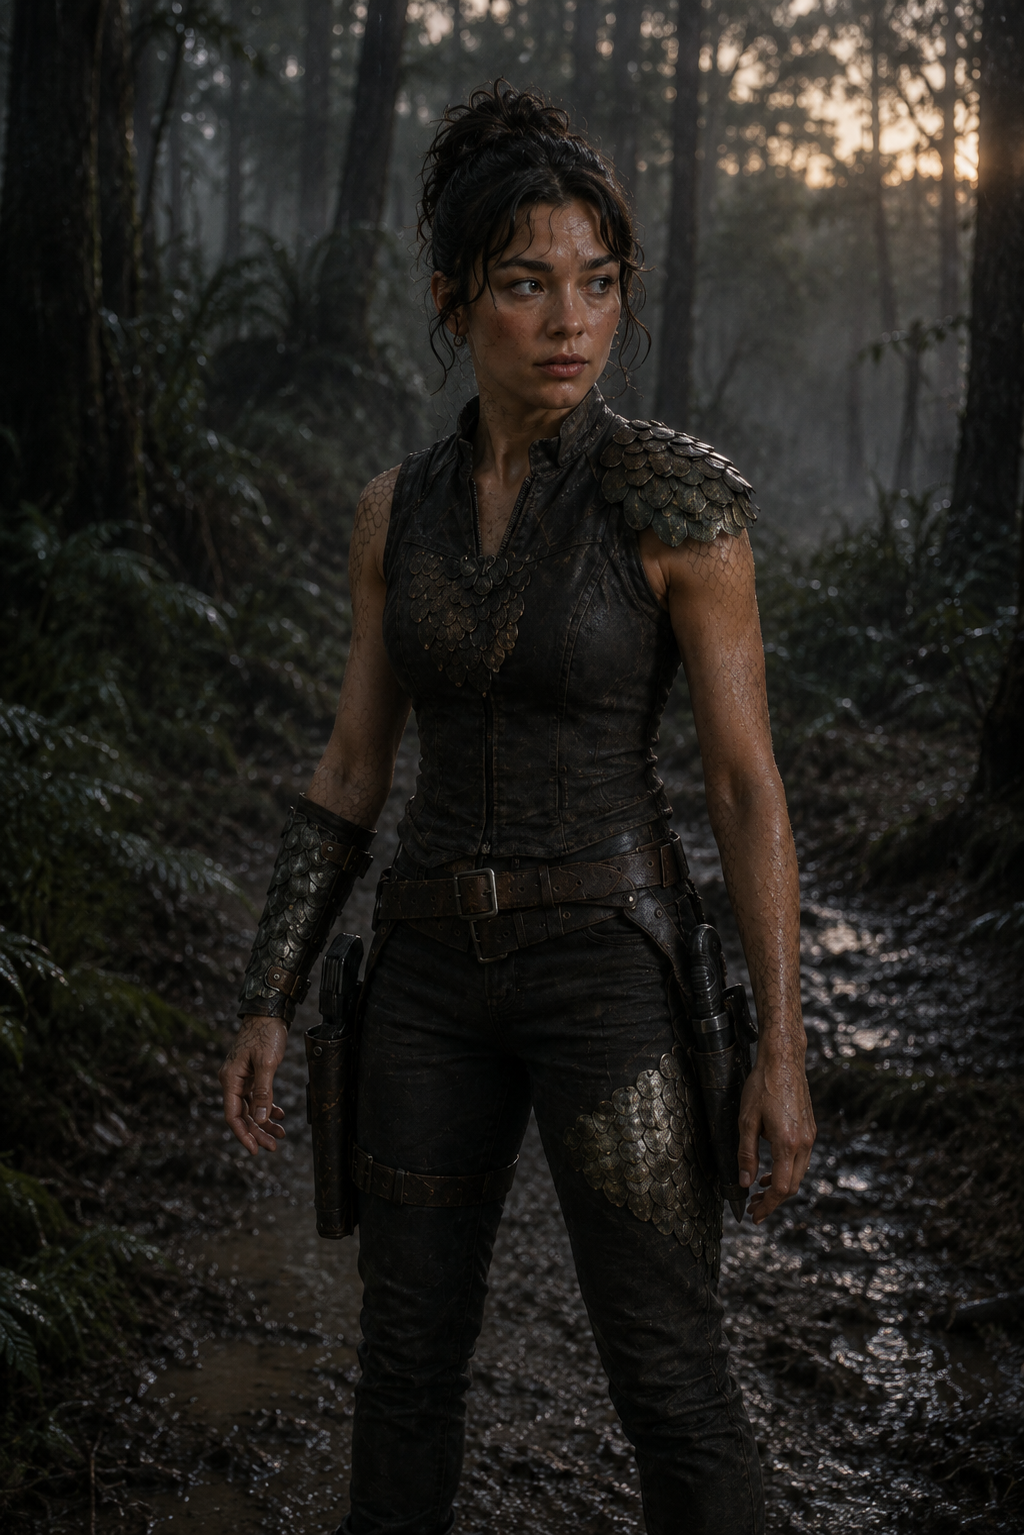
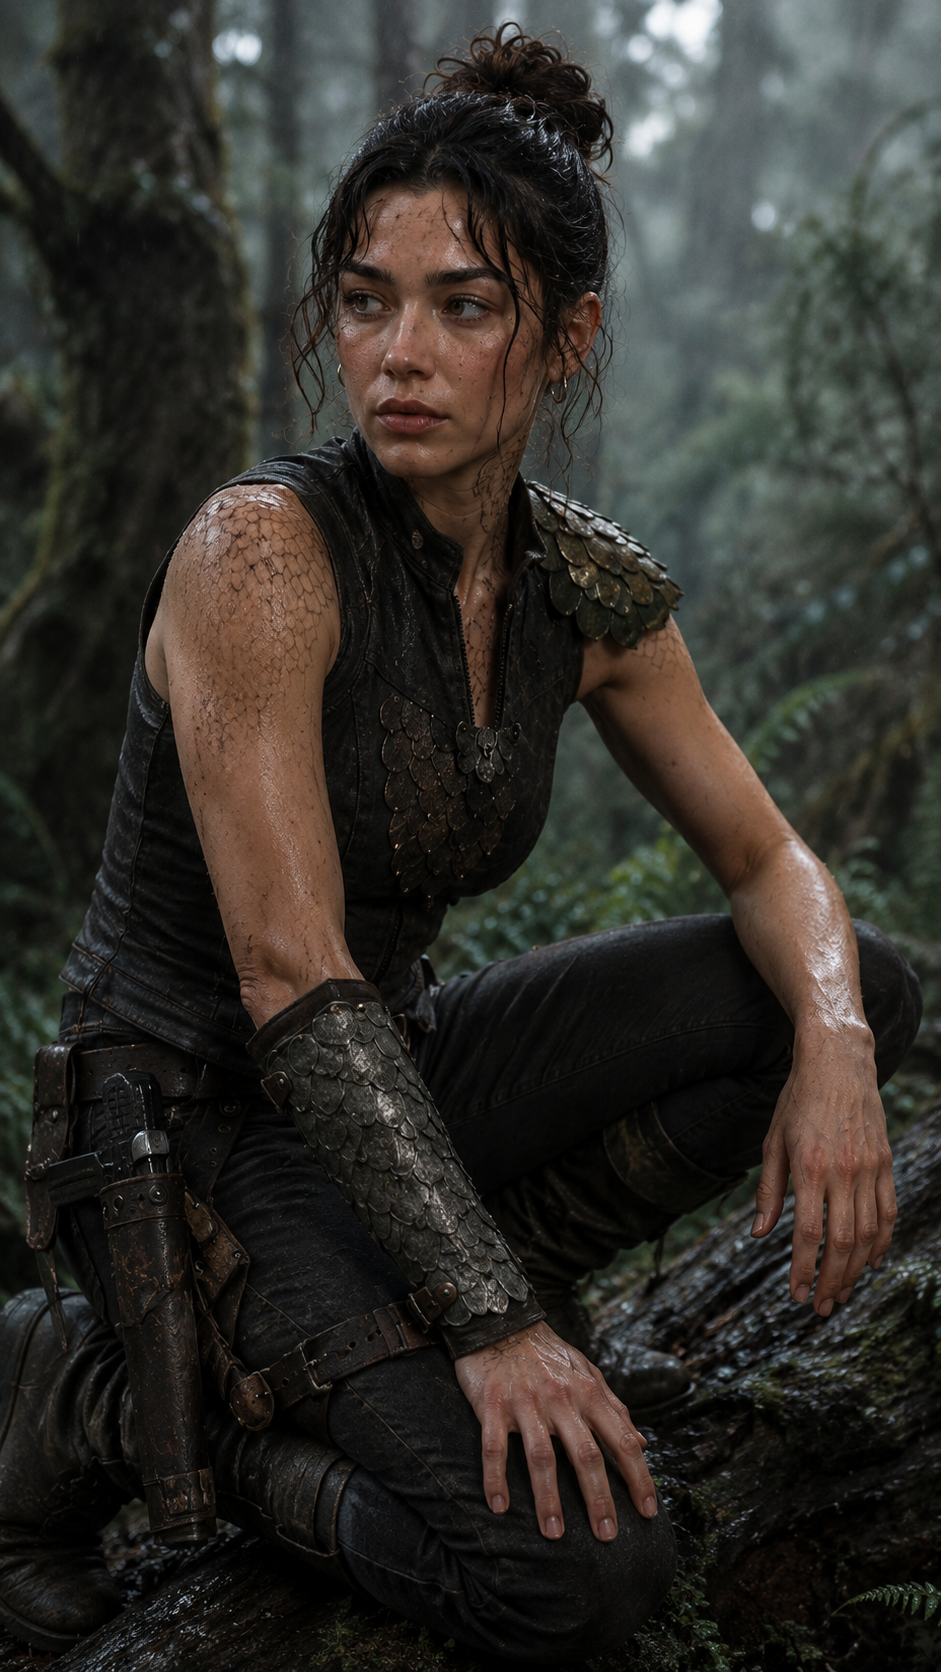
prompts(shada): remove location bait, add exterior-only rule

diff --git a/03-characters/shada/Prompts.md b/03-characters/shada/Prompts.md
@@ -64,7 +64,12 @@ used sparingly. Bright colour only for rank, warning markings or a significant
 personal item.
 
 Lighting motivated by believable sources only: natural sunlight, overcast sky,
-work lamps, bulkhead fixtures, warning lights, control panels, firelight.
+dusk, mist, campfire and firelight, and hand-carried work lamps.
+
+SHADA IS NEVER INDOORS AND NEVER ON A SHIP. Every environment she appears in is
+exterior: wet forest, forest clearing, or the mercenary camp among the trees. No
+corridors, no bulkheads, no control panels, no warning lights, no market stalls,
+no buildings, no crowds.
 
 Camera: naturalistic composition over heroic posing. Restrained colour grade,
 subtle atmospheric haze, realistic depth of field, fine film grain, practical
@@ -258,8 +263,8 @@ Equipment: compact blaster, well-used combat knife that never leaves her side,
 small climbing and infiltration kit. Nothing else.
 
 She is dangerous through precision, patience and observation rather than
-physical dominance. She should look like someone who belongs in a forest even
-when standing inside a starship.
+physical dominance. Everything about how she moves, dresses and watches has been
+shaped by wet forest — she belongs in it, and it shows.
 
 ---
 
